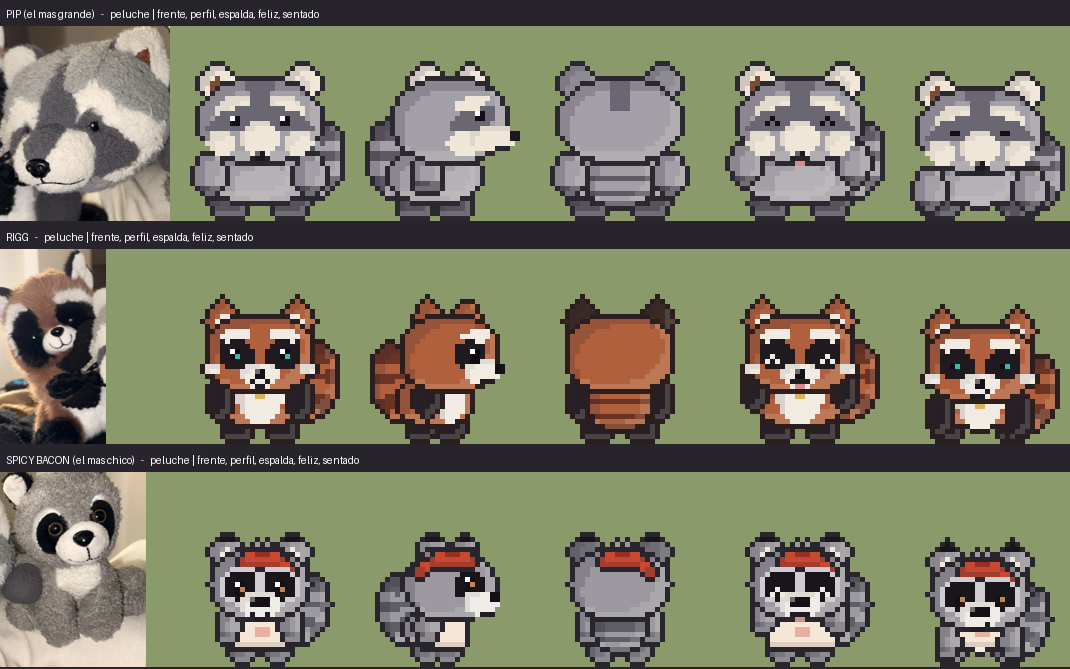
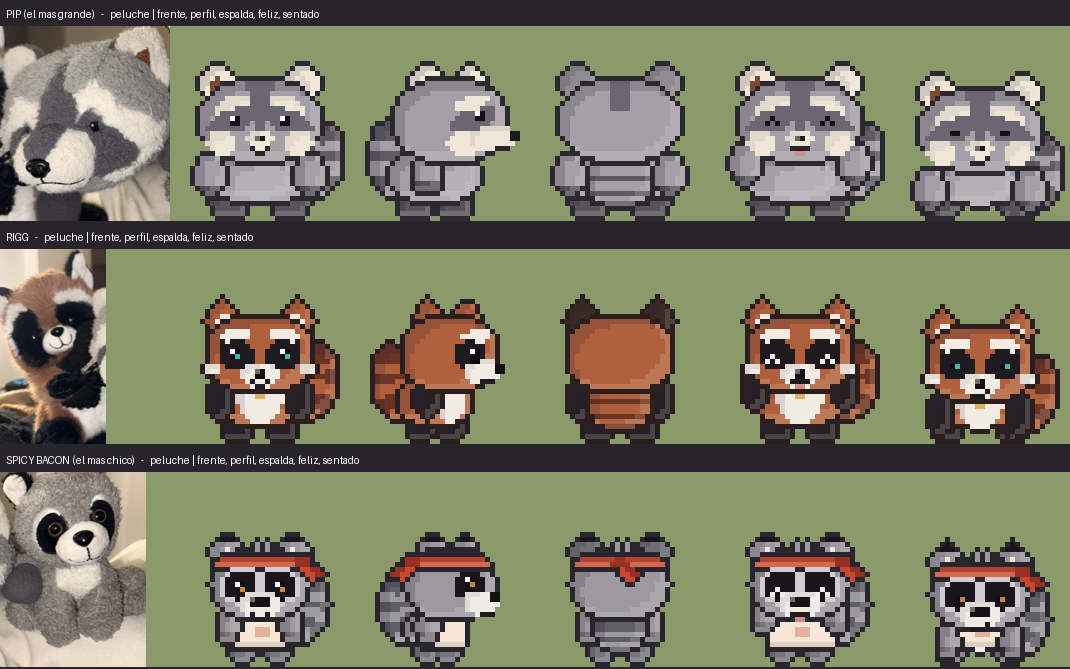
Raccoon sketch: Pip's snout points at the viewer from the front (small tip, long only in profile); Spicy wears a tied headband instead of a cap-like bandana
Claude-Session: https://claude.ai/code/session_01Q9tFTKZvvquF6SSLj5Ec4x

diff --git a/src/art/trio.ts b/src/art/trio.ts
@@ -315,19 +315,15 @@ function face(g: Ctx, s: Geo, id: TrioId, expr: FolkExpr) {
     for (const sg of [-1, 1]) blob(g, W, H, rell(hx + sg * 6, hy + 0.2, 5, 2.3, sg * 0.38), L.dark);
     blob(g, W, H, (x, y) => y >= hy - L.hry + 0.4 && y < hy + 2 && Math.abs(x - hx) <= 1.2 + Math.max(0, (hy - y) * 0.22), L.dark);
     for (const sg of [-1, 1]) blob(g, W, H, ell(hx + sg * 7.6, hy + 4.4, 3, 2.4, 2.1), L.cream, { dk: -0.06 });
-    // a pointed snout: narrower towards the nose
-    blob(g, W, H, (x, y) => {
-      const v = (y - (hy + 3.8)) / 3.6;
-      if (Math.abs(v) > 1) return false;
-      return Math.abs(x - hx) <= 4.4 * Math.sqrt(1 - v * v) * (v > 0 ? 1 - v * 0.45 : 1);
-    }, L.cream, { lt: 0.04, dk: -0.08, l: 1, d: 1 });
+    // seen from the front the long snout points at us: only a small cream tip shows, the length reads from the side
+    blob(g, W, H, ell(hx, hy + 3.6, 2.6, 2.1, 2.2), L.cream, { lt: 0.04, dk: -0.08, l: 1, d: 1 });
     const ey = Math.round(hy - 0.6);
     if (expr === 'blink' || expr === 'sleep') { px(g, cx - 7, ey + 1, L.eye, 3, 1); px(g, cx + 4, ey + 1, L.eye, 3, 1); }
     else if (expr === 'happy') { for (const x0 of [cx - 7, cx + 4]) { px(g, x0, ey + 1, L.eye); px(g, x0 + 1, ey, L.eye); px(g, x0 + 2, ey + 1, L.eye); } }
     else eyesFront(g, s, id, expr, cx - 6, cx + 4, ey, 2, expr === 'surprised' ? 3 : 2);
-    px(g, cx - 1, Math.round(hy + 5.6), L.nose, 2, 2);
-    px(g, cx - 1, Math.round(hy + 5.6), tone(L.nose, 0.35));
-    mouthFront(g, cx, Math.round(hy + 7.4), expr === 'neutral' || expr === 'blink' ? 'sleep' : expr, mouth);
+    px(g, cx - 1, Math.round(hy + 2.8), L.nose, 2, 1);
+    px(g, cx - 1, Math.round(hy + 2.8), tone(L.nose, 0.35));
+    mouthFront(g, cx, Math.round(hy + 5.2), expr === 'neutral' || expr === 'blink' ? 'sleep' : expr, mouth);
     return;
   }
   const big = id === 'spicy';
@@ -349,6 +345,26 @@ function face(g: Ctx, s: Geo, id: TrioId, expr: FolkExpr) {
   mouthFront(g, cx, Math.round(hy + 5), expr, mouth);
 }
 
+/**
+ * Spicy's red bandana: a thin band tied around the forehead (over the head, under the ears' tips), knotted on one side
+ * with two short tails; from behind the knot sits in the middle of the back of the head.
+ */
+function bandana(g: Ctx, s: Geo) {
+  const { L, W, H } = s;
+  const red = '#c9482f', dark = '#962f24';
+  const y0 = s.hy - L.hry + 1.6, y1 = y0 + 2.2;
+  const inHead = ell(s.hx, s.hy, s.hrx + 0.6, L.hry + 0.6, L.hp);
+  blob(g, W, H, (x, y) => y >= y0 && y < y1 && inHead(x, y), red, { lt: 0.18, dk: -0.15, l: 1, d: 1 });
+  const knot = (kx: number, down: number) => {
+    blob(g, W, H, ell(kx, y0 + 1, 1.6, 1.4), dark);
+    blob(g, W, H, (x, y) => y > y0 + 1.6 && y < y0 + 4.8 && Math.abs(x - (kx + down * (y - y0 - 1.6) * 0.6)) < 0.9, red);
+    blob(g, W, H, (x, y) => y > y0 + 1.6 && y < y0 + 4 && Math.abs(x - (kx + down * 1.4 + down * (y - y0 - 1.6) * 0.9)) < 0.9, dark);
+  };
+  if (s.view === 'back') knot(s.hx, 1);
+  else if (s.view === 'side') knot(s.hx - s.hrx + 0.8, -1);
+  else knot(s.hx + s.hrx - 0.6, 1);
+}
+
 /** One frame of Pip, Rigg or Spicy Bacon. `left` is the mirror of `right`. */
 export function trioFrame(id: TrioId, pose: FolkPose, custom?: FolkCustom): HTMLCanvasElement {
   const L = LOOKS[id];
@@ -366,8 +382,9 @@ export function trioFrame(id: TrioId, pose: FolkPose, custom?: FolkCustom): HTML
   if (view === 'back') layers.push((g) => tail(g, s));
   layers.push((g) => ears(g, s, id));
   layers.push((g) => head(g, s, id));
-  const item = custom?.head ?? (id === 'spicy' ? { kind: 'bandana', c1: '#c9482f', c2: '#962f24' } : undefined);
+  const item = custom?.head;
   if (item) layers.push((g) => headAcc(g, item.kind, item.c1, item.c2, Math.round(s.hx), Math.round(s.hy - L.hry) - 1, Math.round(L.hrx * 0.67), view));
+  else if (id === 'spicy') layers.push((g) => bandana(g, s));
   const canvas = stack(L.W, 39, L.ink, layers, (o) => {
     face(o, s, id, pose.expr);
     if (pose.arms === 'read') {
